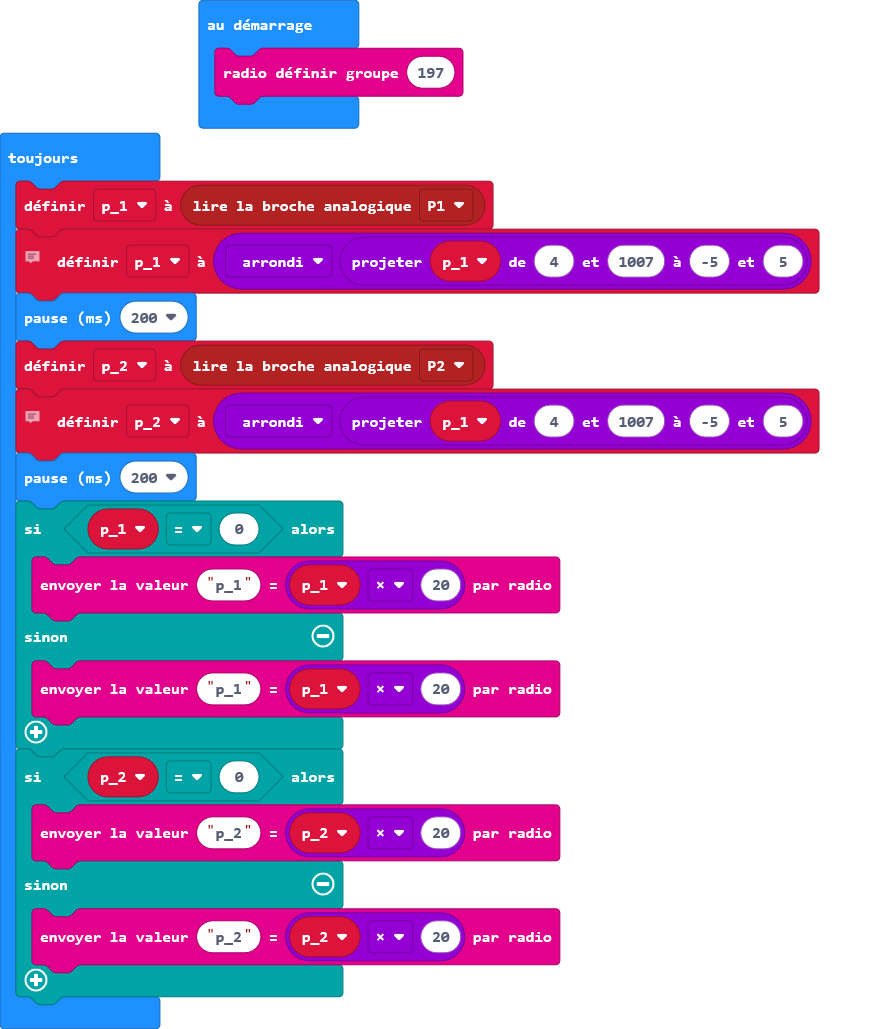
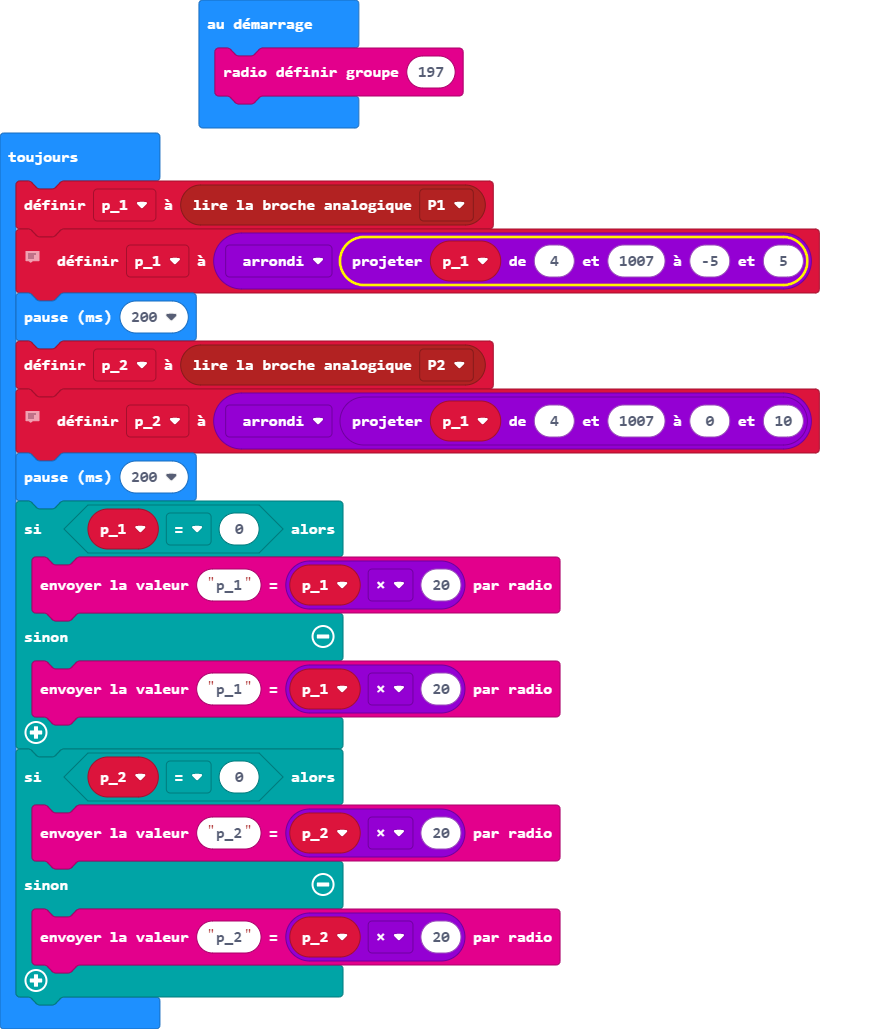
Mise à jour main.blocks, main.ts

diff --git a/main.ts b/main.ts
@@ -8,7 +8,7 @@ basic.forever(function () {
     basic.pause(200)
     p_2 = pins.analogReadPin(AnalogPin.P2)
     // mal traduit
-    p_2 = Math.round(Math.map(p_1, 4, 1007, -5, 5))
+    p_2 = Math.round(Math.map(p_1, 4, 1007, 0, 10))
     basic.pause(200)
     if (p_1 == 0) {
         radio.sendValue("p_1", p_1 * 20)
